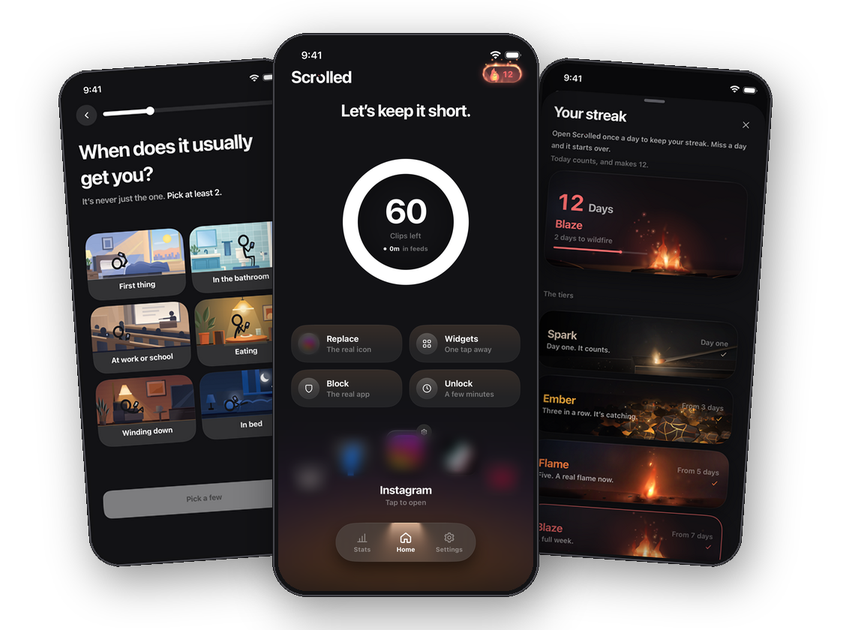
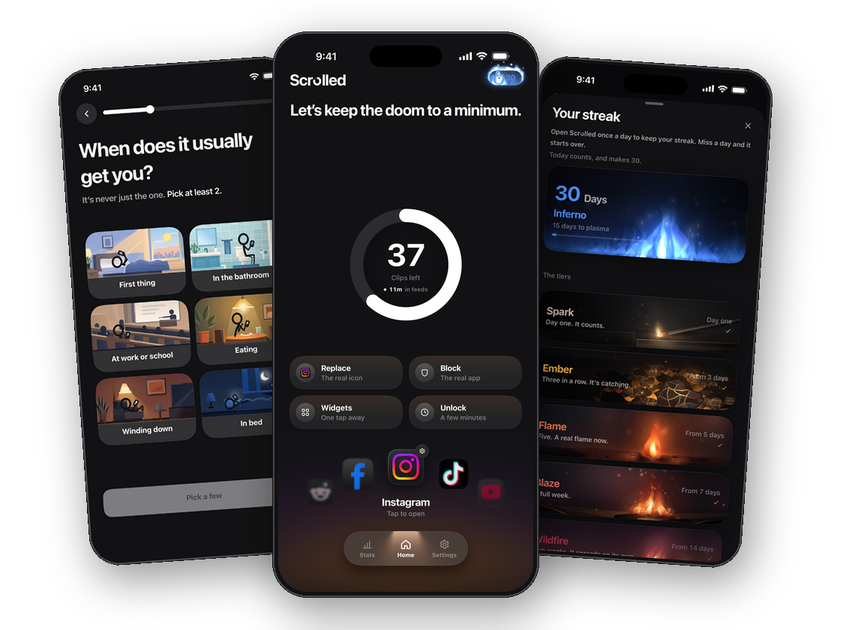
Put Scrolled back on the projects now that it's on the App Store
Release copy, App Store and getscrolled.app links, legal links pointing at
getscrolled.app, and current screens from the shipped build (home, stats,
blocking, widgets) ahead of the onboarding ones.

diff --git a/projects-data.js b/projects-data.js
@@ -1,21 +1,19 @@
 // Project data shared by portfolio.html (preview cards) and project.html (detail view).
-// Scrolled is hidden until the app is out: put 'scrolled' back at the front and uncomment its entry below.
-window.PROJECT_ORDER = ['gd', 'motor', 'sensor', 'pihole', 'dime', 'heart', 'comingsoon'];
+window.PROJECT_ORDER = ['scrolled', 'gd', 'motor', 'sensor', 'pihole', 'dime', 'heart', 'comingsoon'];
 
 window.PROJECTS = {
-  /* Hidden until Scrolled launches (its terms and privacy pages stay up at /scrolled/terms and /scrolled/privacy).
   // An app, not a board: no `pcb`, so the card shows `previewImg` and the
   // detail page shows `screens` (a row of phone screenshots) instead of a 3D model.
   scrolled: {
     name: 'Scrolled',
     previewImg: 'project%20media/scrolled%20preview.png',
     previewFit: 'contain',
-    meta: 'Swift, SwiftUI, Screen Time API · Summer 2026, ongoing',
-    desc: 'An iPhone app that gives your endless feeds an ending.',
+    meta: 'Swift, SwiftUI, Screen Time API · Summer–Fall 2026',
+    desc: 'An iPhone app that gives your endless feeds an ending. Out now on the App Store.',
     longDesc: [
       "Scrolled is an iPhone app that makes short form feeds actually end. Movies and books have an ending, short video feeds don't. In Scrolled you open Instagram, TikTok, YouTube, X, Reddit or Facebook in a built in browser that counts every clip you get through against a daily allowance you pick during setup. Once it's spent, the feed stops on an \"all caught up\" screen and that's it for the day.",
       "By default the allowance is shared between all of them on purpose, so running out on Instagram can't just send you over to TikTok. After the first week you can lower it whenever you want but only raise it once a week, since the moment you want more clips is right after your feed runs out.",
-      "So you can't just open the real apps instead, Scrolled can also block them with Apple's Screen Time API (you pick which ones). The real app gets a custom block screen that points you back to Scrolled. You can unlock it for 1 to 5 minutes when you actually need it, and there's an optional hard mode where turning blocking off takes 24 hours.",
+      "So you can't just open the real apps instead, Scrolled can also block them with Apple's Screen Time API (you pick which ones). The real app gets a custom block screen that points you back to Scrolled. You can unlock it for a few minutes when you actually need it, and there's an optional hard mode where turning blocking off takes 24 hours.",
       "The onboarding ended up being the biggest part of the app, more than a third of all the Swift. It's around 20 screens, and most of them run on your own numbers: you scroll a little feed that actually has a bottom, put in your real Screen Time hours, and see how much of your free time they eat up on a \"your life in weeks\" calendar. Near the end you make a pinky promise by holding down a pad, and the paywall right after it is built out of your own answers instead of testimonials or countdown timers.",
       "Some other stuff in it:",
       [
@@ -25,25 +23,29 @@ window.PROJECTS = {
         'Home screen widgets that show how many clips you have left',
         'A Shortcuts and Siri action that opens a feed in Scrolled'
       ],
-      "It started in July as an Expo/React Native prototype, and in August I ported the whole thing to native Swift. It's built in SwiftUI (with UIKit only where it has to bridge, like the web view) with zero third party packages, and it's split into the app plus 7 extensions (Screen Time, widgets and the share sheet among them). Scrolled has no servers or analytics of its own, and nothing you do in it gets sent to me. It's not on the App Store yet.",
+      "It started in July as an Expo/React Native prototype, and in August I ported the whole thing to native Swift. It's built in SwiftUI (with UIKit only where it has to bridge, like the web view) with zero third party packages, and it's split into the app plus 7 extensions (Screen Time, widgets and the share sheet among them). Scrolled has no servers or analytics of its own, and nothing you do in it gets sent to me. It came out on the App Store on October 4, 2026.",
       "Scrolled isn't affiliated with or endorsed by any of the apps it works with. Their names and logos belong to their owners."
+    ],
+    links: [
+      { label: 'get it on the app store', href: 'https://apps.apple.com/us/app/scrolled-limit-reels-tiktok/id6815860237' },
+      { label: 'getscrolled.app', href: 'https://getscrolled.app' }
     ],
     screens: [
       { kind: 'image', src: 'project%20media/scrolled%20home.jpg',      name: 'Home',                 caption: "today's clips on the ring." },
       { kind: 'video', src: 'project%20media/scrolled%20streak.mp4',    name: 'Streak',               caption: 'every tier has its own scene, drawn in code.', poster: 'project%20media/scrolled%20streak%20poster.jpg' },
-      { kind: 'image', src: 'project%20media/scrolled%20welcome.jpg',   name: 'First screen',         caption: 'where the onboarding starts.' },
+      { kind: 'image', src: 'project%20media/scrolled%20stats.jpg',     name: 'Stats',                caption: 'only what it measured, plus the time you kept.' },
+      { kind: 'image', src: 'project%20media/scrolled%20blocked.jpg',   name: 'Blocking',             caption: 'the real apps, shut with Screen Time.' },
+      { kind: 'image', src: 'project%20media/scrolled%20widgets.jpg',   name: 'Widgets',              caption: 'one tap from the home screen.' },
       { kind: 'image', src: 'project%20media/scrolled%20when.jpg',      name: 'When does it get you', caption: 'six rooms, one for each part of the day.' },
       { kind: 'image', src: 'project%20media/scrolled%20calendar.jpg',  name: 'Your life in weeks',   caption: 'one dot per week, one row per year.' },
-      { kind: 'image', src: 'project%20media/scrolled%20allowance.jpg', name: 'How much is a day',    caption: 'picking the daily allowance.' },
       { kind: 'image', src: 'project%20media/scrolled%20promise.jpg',   name: 'Pinky promise',        caption: 'hold the pad to make it.' },
       { kind: 'image', src: 'project%20media/scrolled%20caught%20up.jpg', name: 'The ending',         caption: 'the paywall shows how a feed ends.' }
     ],
     legal: [
-      { label: 'Terms of Use',   href: '/scrolled/terms',   caption: 'effective september 25, 2026.' },
-      { label: 'Privacy Policy', href: '/scrolled/privacy', caption: 'effective september 25, 2026.' }
+      { label: 'Terms of Use',   href: 'https://getscrolled.app/terms',   caption: 'on getscrolled.app.' },
+      { label: 'Privacy Policy', href: 'https://getscrolled.app/privacy', caption: 'on getscrolled.app.' }
     ]
   },
-  */
 
   dime: {
     name: 'Dime (Inverted Pendulum)',
